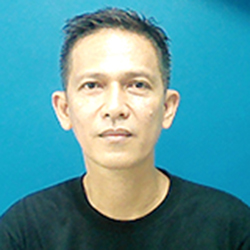
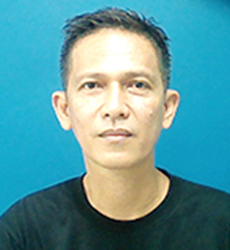
update index to load me pic

diff --git a/index.html b/index.html
@@ -55,7 +55,7 @@
                 <header class="text-white text-center" >
                         <div class="container d-flex align-items-center flex-column p-5">
                             <!-- Author Image-->
-                            <img class="rounded-circle p-5" src="asset/img/me.jpg"  alt="Author's Picture" />
+                            <img class="rounded-circle p-5" src="asset/img/me.JPG"  alt="Author's Picture" />
                             
                             <h1 class="light-bg text-uppercase">Arvin G. Lauron</h1>
                             <!-- Icon Divider-->
